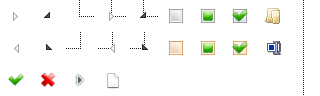
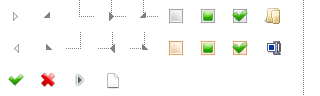
Fix jstree on dark mode

diff --git a/_sass/custom/custom.scss b/_sass/custom/custom.scss
@@ -882,8 +882,8 @@ a:not([class]) {
     }
 
     @else {
-      color: $primary-500-dark;
-      background-color: $primary-50-dark;
+      color: $primary-50-dark;
+      background-color: $primary-500-dark;
     }
 
     padding: 20px 14px 8px 14px;
@@ -1130,15 +1130,31 @@ a:not([class]) {
 }
 
 a.jstree-anchor.jstree-hovered{
-        @if $color_scheme=='dark' {
-              color: #515151;
+    @if $color_scheme=='dark' {
+        color: #515151;
+            i {
+                filter: invert(26%) sepia(0%) saturate(28%) hue-rotate(162deg) brightness(94%) contrast(85%);
             }
     }
+}
 a.jstree-anchor.jstree-clicked{
-        @if $color_scheme=='dark' {
-              color: #494949;
-            }
+    @if $color_scheme=='dark' {
+        color: #494949;
+        i {
+            filter: invert(26%) sepia(0%) saturate(28%) hue-rotate(162deg) brightness(94%) contrast(85%);
+        }
     }
+}
+
+i.jstree-icon{
+    @if $color_scheme=='light' {
+        filter: invert(36%) sepia(8%) saturate(440%) hue-rotate(218deg) brightness(90%) contrast(85%);
+    }
+    @if $color_scheme=='dark' {
+        filter: invert(89%) sepia(0%) saturate(0%) hue-rotate(174deg) brightness(84%) contrast(87%);
+    }
+}
+
 
 @media (min-width: 50rem) and ((max-width: 66.5rem)) {
   #top.main {
